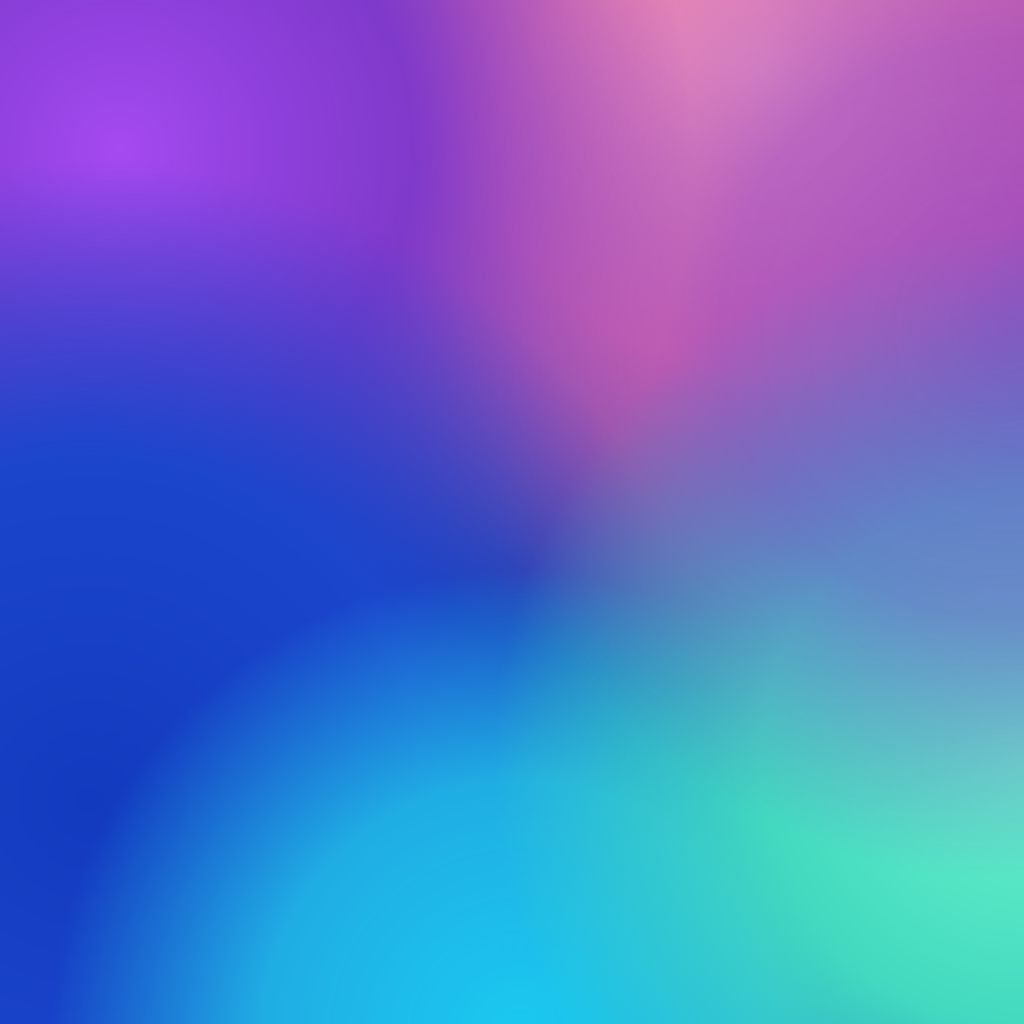
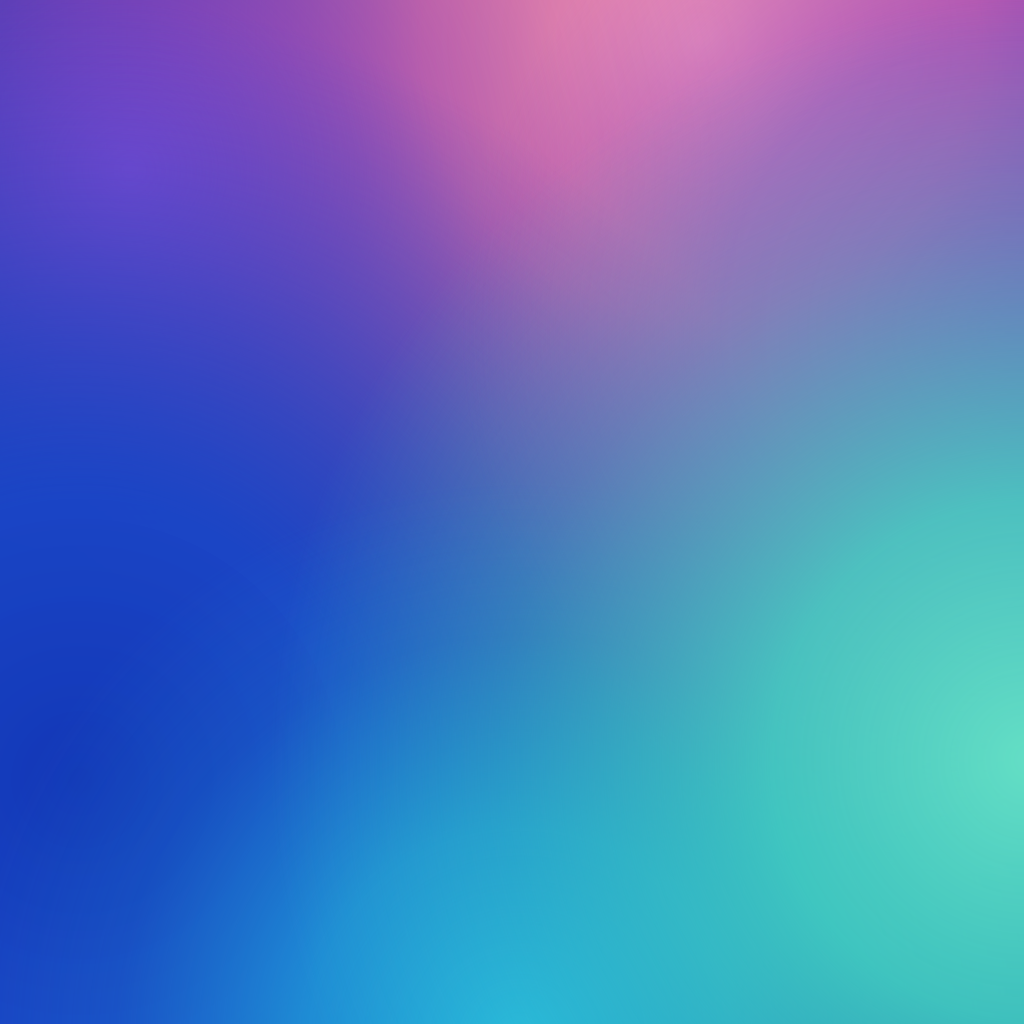
The second field, and why gradBlend came back out
Four stops per gradient where there were three, softer peaks on the purple,
cyan and teal, and a deeper base. All reproduced as written. The mark stays
this file's, equilateral and at the size the refinement asked for, as decided
last time.

White reads at 1.46:1 against the field now, up from 1.34 — the softer peaks
let more of the base through and the field sits a little deeper.

## gradBlend

It is evidently aimed at the seam on the right, and it makes it slightly
worse. Measured three ways over the visible field:

    as supplied, with gradBlend      worst spread 15, 1339 points under 0.30
    with gradBlend simply removed    worst spread 21, 1152 points under 0.30
    with a purple there instead      worst spread 57, none under 0.30

`#A1B89A` is a desaturated sage, and the trouble at that edge is not harshness
— it is that pink and teal are 170° apart, so compositing them averages toward
grey. Laying a desaturated colour over that adds grey to grey. What is there
instead is `#7D37CC`, which is `gradPurple`'s own second stop: a colour
already in the set, sitting between the two on the wheel so the handover goes
the short way round. Delete that one entry to have the seam back.

## The muddiness test was measuring the wrong thing

It took saturation as a proportion of the brightest channel, which punishes a
light colour for being light. This field's floor is rgb(129, 128, 185) —
plainly blue-violet — and it failed.
[…]

diff --git a/apps/web/test/icon-dark.test.ts b/apps/web/test/icon-dark.test.ts
@@ -269,16 +269,29 @@ describe('what a renderer actually draws', () => {
     const near = (x: number, y: number) =>
       circles.some((c) => Math.abs(Math.hypot(x - c.cx, y - c.cy) - c.r) < 6);
 
-    let worst = 1;
+    /*
+     * Measured as the spread between the channels, in units out of 255, not as
+     * a proportion of the brightest one.
+     *
+     * The proportion is what this used to take, and it is the wrong measure
+     * for a light field: a pale periwinkle scores badly on it while being
+     * perfectly saturated to look at. This field's floor is rgb(129, 128, 185)
+     * — plainly blue-violet, and it failed the old bar.
+     *
+     * Grey is channels close together whatever the brightness, so the spread
+     * is the thing. The two greys this exists to catch measured 15 and 21;
+     * everything on this field is above 50, so the bar sits between them with
+     * room on both sides.
+     */
+    let worst = 255;
     for (let y = 6; y < 1018; y += 8) {
       for (let x = 6; x < 1018; x += 8) {
         if (near(x, y) || inside(x, y) % 2 === 1) continue;
         const [r, g, b] = pixel(x, y);
-        const max = Math.max(r, g, b);
-        worst = Math.min(worst, max === 0 ? 0 : (max - Math.min(r, g, b)) / max);
+        worst = Math.min(worst, Math.max(r, g, b) - Math.min(r, g, b));
       }
     }
-    expect(worst).toBeGreaterThanOrEqual(0.38);
+    expect(worst).toBeGreaterThan(35);
   });
 
   it('keeps the white readable all the way round the mark', () => {
@@ -332,10 +345,9 @@ describe('what a renderer actually draws', () => {
      * in luminance units out of 255, so it is a real brightness step rather
      * than a proportion of something.
      */
-    const centres = [...ICON.matchAll(/cx="(-?\d+)" cy="(-?\d+)"/g)].map((m) => [
-      Number(m[1]),
-      Number(m[2]),
-    ]);
+    const centres = [...ICON.matchAll(/cx="(-?\d+)" cy="(-?\d+)"/g)].map(
+      (m) => [Number(m[1]!), Number(m[2]!)] as const,
+    );
     expect(centres.length).toBeGreaterThanOrEqual(5);
 
     let sharpest = 0;
